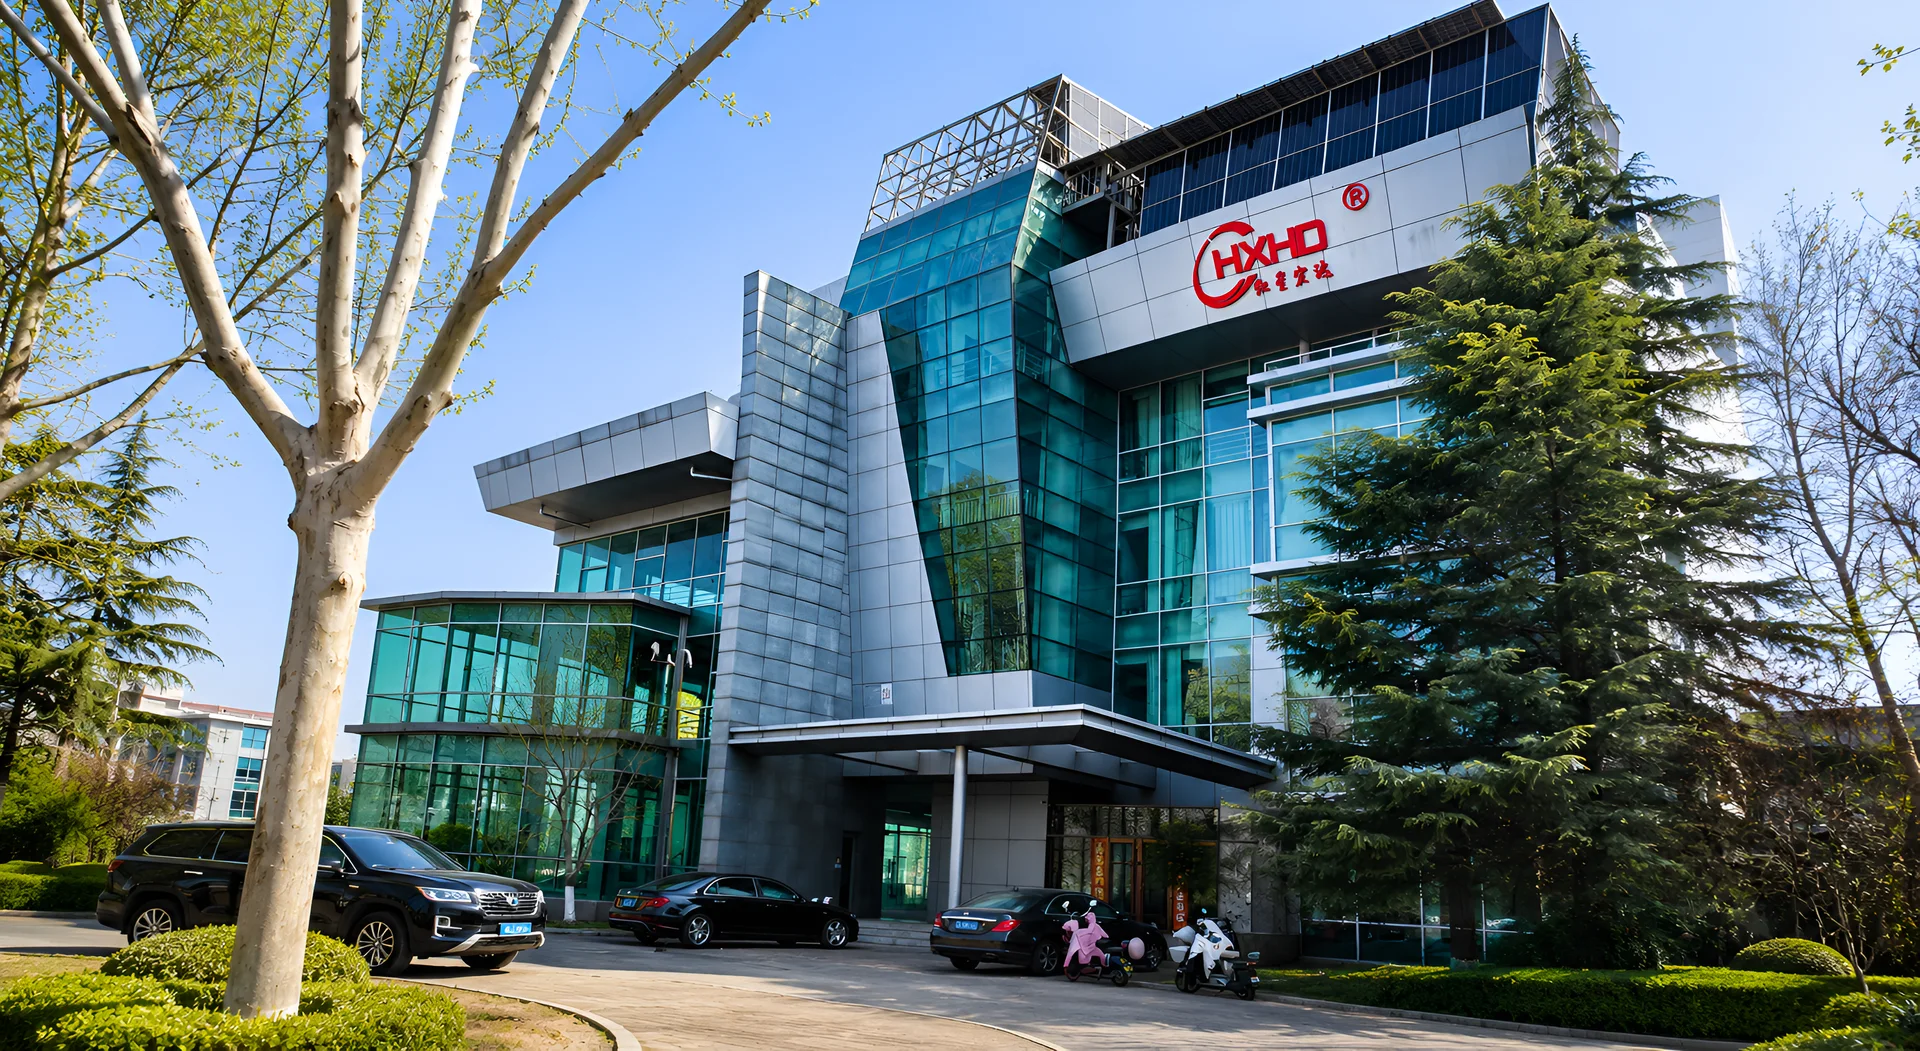
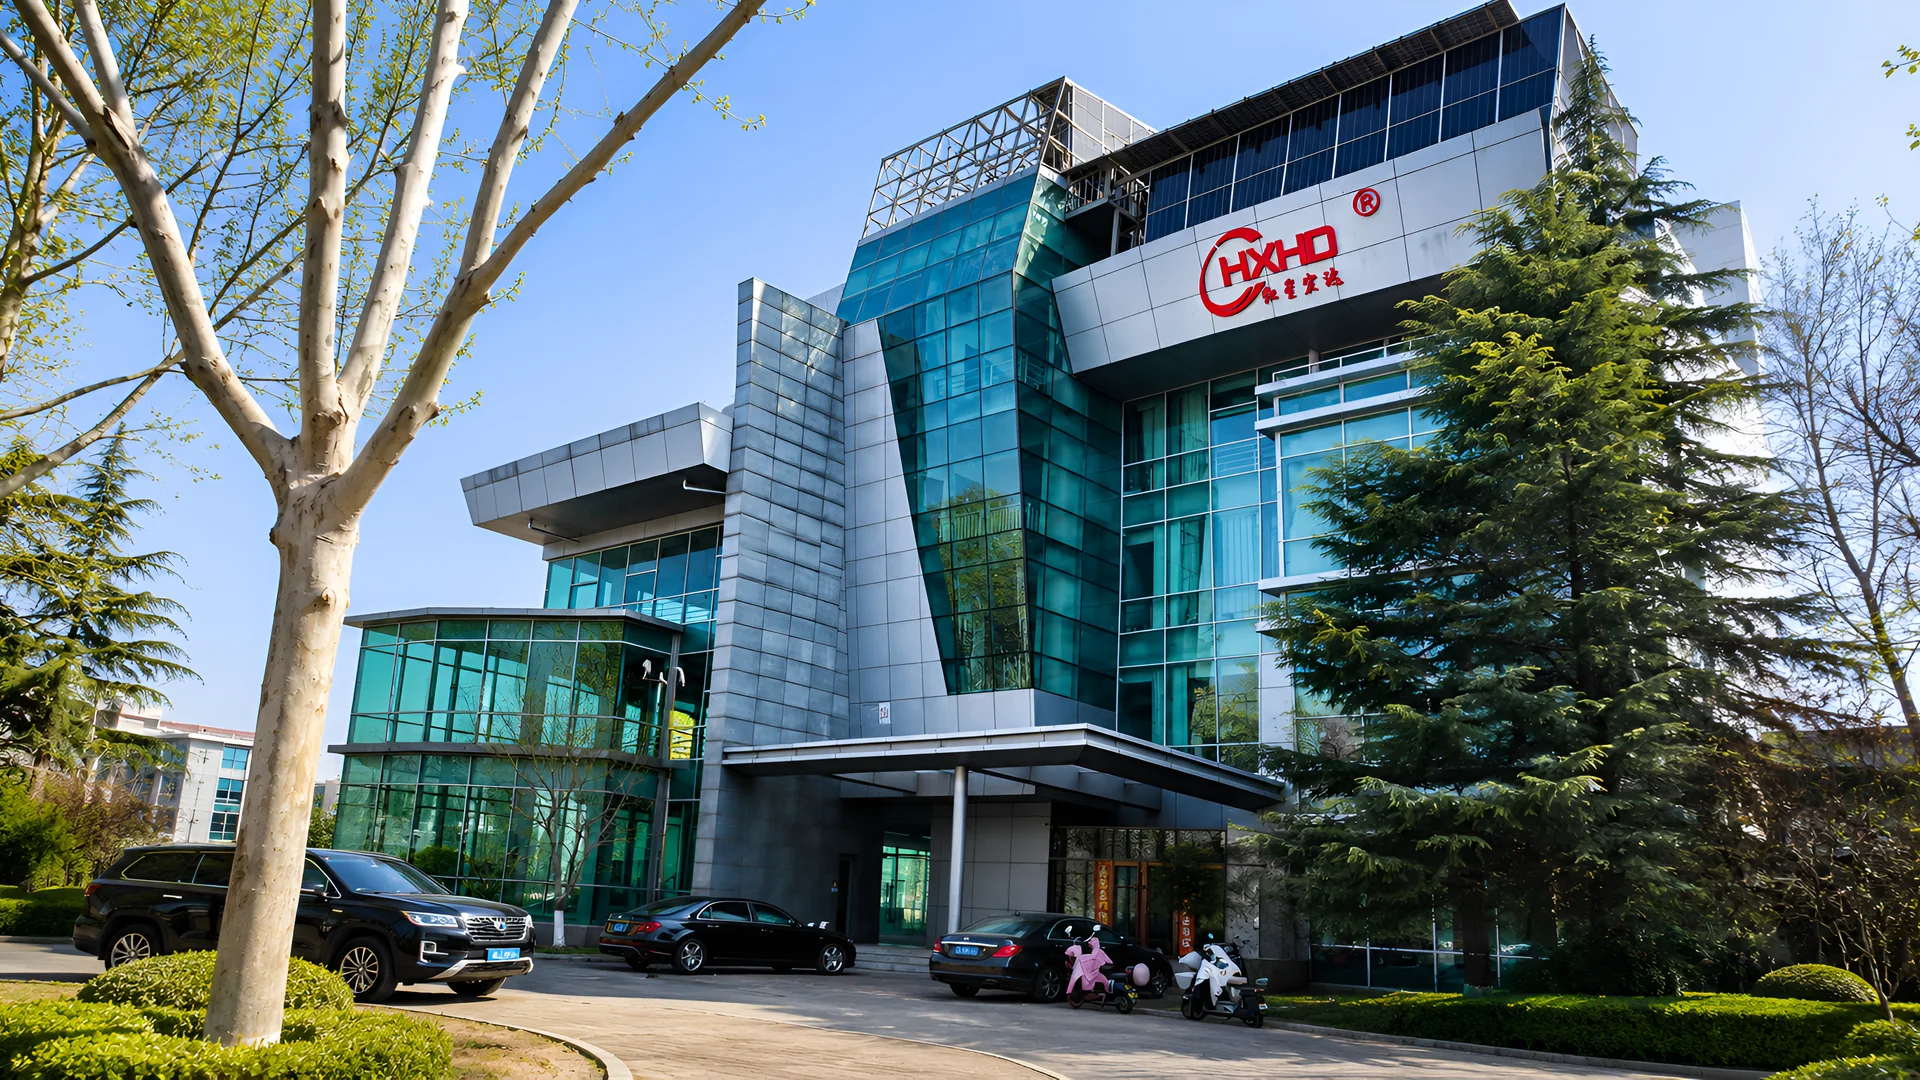
feat(about): show the office photographs whole, and close the leadership gap
Two fixes to the same page.

The banner was cropping the office pictures — the right of the Beijing
frame was cut off. `cover` only crops when the box and the picture
disagree about shape, so both photographs are re-exported at exactly 16:9
and the banner takes that shape from `lg` up. Nothing is cut. Below `lg`
it stays as tall as its copy and crops, because a 16:9 picture on a phone
would leave the heading nowhere to go.

With one portrait rather than two, the leadership row split 6/6 and left
half of it empty. The portrait now takes four columns and the message
eight, the row stretches so both end level, and the signature sits at the
foot of the card instead of wherever the text happened to stop. The
message carries a little more size now it has the width for it.

diff --git a/src/app/components/about/AboutLeadership.tsx b/src/app/components/about/AboutLeadership.tsx
@@ -85,6 +85,10 @@ export function AboutLeadership() {
   const { c } = useI18n();
   const [open, setOpen] = useState<number | null>(null);
 
+  // Two portraits split the row evenly; one is too narrow to hold half of it,
+  // so the message takes the space instead of a gap doing nothing.
+  const single = LEADERSHIP.length === 1;
+
   const roleFor = (key: Leader['roleKey']) =>
     key === 'chairman' ? c.about.roleChairman : c.about.roleGeneralManager;
 
@@ -96,11 +100,11 @@ export function AboutLeadership() {
           <h2 className="text-step-3">{c.about.leadershipTitle}</h2>
         </Reveal>
 
-        <div className="grid lg:grid-cols-12 gap-10 lg:gap-14 items-start">
+        <div className="grid lg:grid-cols-12 gap-10 lg:gap-14 items-stretch">
           {/* Portraits */}
           <Stagger
-            className={`lg:col-span-6 grid gap-5 sm:gap-6 ${
-              LEADERSHIP.length > 1 ? 'grid-cols-2' : 'grid-cols-1 max-w-sm'
+            className={`grid gap-5 sm:gap-6 ${
+              single ? 'lg:col-span-4 grid-cols-1' : 'lg:col-span-6 grid-cols-2'
             }`}
           >
             {LEADERSHIP.map((l, i) => (
@@ -115,18 +119,24 @@ export function AboutLeadership() {
           </Stagger>
 
           {/* Chairman's message */}
-          <Reveal direction="left" delay={0.1} className="lg:col-span-6">
-            <div className="relative bg-white border border-[var(--line)] p-7 sm:p-9 cut-br h-full">
+          <Reveal
+            direction="left"
+            delay={0.1}
+            className={single ? 'lg:col-span-8' : 'lg:col-span-6'}
+          >
+            <div className="relative bg-white border border-[var(--line)] p-7 sm:p-9 cut-br h-full flex flex-col">
               <Quote
-                className="w-9 h-9 text-[var(--brand-red)]/20 absolute top-6 right-6"
+                className="w-12 h-12 text-[var(--brand-red)]/15 absolute top-6 right-7"
                 aria-hidden
               />
               <h3 className="text-step-2 mb-5 leading-tight">{c.about.chairmanMessageTitle}</h3>
               <div className="w-16 h-1 bg-[var(--brand-red)] mb-6" />
-              <p className="text-[var(--steel)] leading-[1.85] text-sm sm:text-base">
+              {/* Wider column, so the message can carry the size a chairman's
+                  statement deserves and fill the card rather than float in it. */}
+              <p className="text-[var(--steel)] leading-[1.9] text-sm sm:text-base lg:text-[1.0625rem]">
                 {c.about.chairmanMessage}
               </p>
-              <p className="mt-7 pt-5 border-t border-[var(--line)] font-bold text-[var(--ink)]">
+              <p className="mt-auto pt-7 border-t border-[var(--line)] font-bold text-[var(--ink)]">
                 {LEADERSHIP[0].name}
                 <span className="block text-xs font-bold uppercase tracking-[0.12em] text-[var(--steel-2)] mt-1">
                   {c.about.roleChairman}

diff --git a/src/app/components/PageHero.tsx b/src/app/components/PageHero.tsx
@@ -42,6 +42,18 @@ interface PageHeroProps {
    * as a second thing to read.
    */
   imageTone?: 'balanced' | 'quiet';
+  /**
+   * Aspect class for the banner itself, e.g. "lg:aspect-video".
+   *
+   * `cover` only crops when the box and the picture disagree about shape, so
+   * matching the box to a 16:9 cover shows the whole photograph. Left off, the
+   * banner is as tall as its copy and the picture is cropped to fit -- which
+   * is what a banner normally wants.
+   *
+   * Applied from `lg` upward by the caller: on a phone the copy needs more
+   * height than a wide picture would give it.
+   */
+  imageAspect?: string;
 }
 
 const EASE = [0.16, 1, 0.3, 1] as const;
@@ -58,6 +70,7 @@ export function PageHero({
   imageAlt,
   imagePosition = 'object-[70%_center] sm:object-center',
   imageTone = 'balanced',
+  imageAspect,
 }: PageHeroProps) {
   const quiet = imageTone === 'quiet';
 
@@ -114,7 +127,9 @@ export function PageHero({
         </div>
       </div>
 
-      <div className="relative bg-[var(--ink)] text-white overflow-hidden">
+      <div
+        className={`relative bg-[var(--ink)] text-white overflow-hidden ${imageAspect ?? ''}`}
+      >
         {covers.length ? (
           <>
             <AnimatePresence initial={false}>
@@ -171,7 +186,7 @@ export function PageHero({
         )}
         <div className="absolute left-0 top-0 h-full w-[3px] bg-[var(--brand-red)] z-10" aria-hidden />
 
-        <div className="shell relative z-10 py-16 lg:py-20 min-h-[19rem] flex flex-col justify-center">
+        <div className="shell relative z-10 h-full py-16 lg:py-20 min-h-[19rem] flex flex-col justify-center">
           <motion.p className="eyebrow eyebrow-on-dark mb-5" {...rise(0)}>
             {eyebrowText}
           </motion.p>

diff --git a/src/app/about/AboutContent.tsx b/src/app/about/AboutContent.tsx
@@ -53,6 +53,7 @@ export function AboutContent() {
         titleKey="page.about.title"
         intro={c.about.intro}
         crumbs={[{ labelKey: 'nav.about' }]}
+        imageAspect="lg:aspect-video"
         image={[
           '/images/about/covers/beijing.webp',
           '/images/about/covers/hebei.webp',
